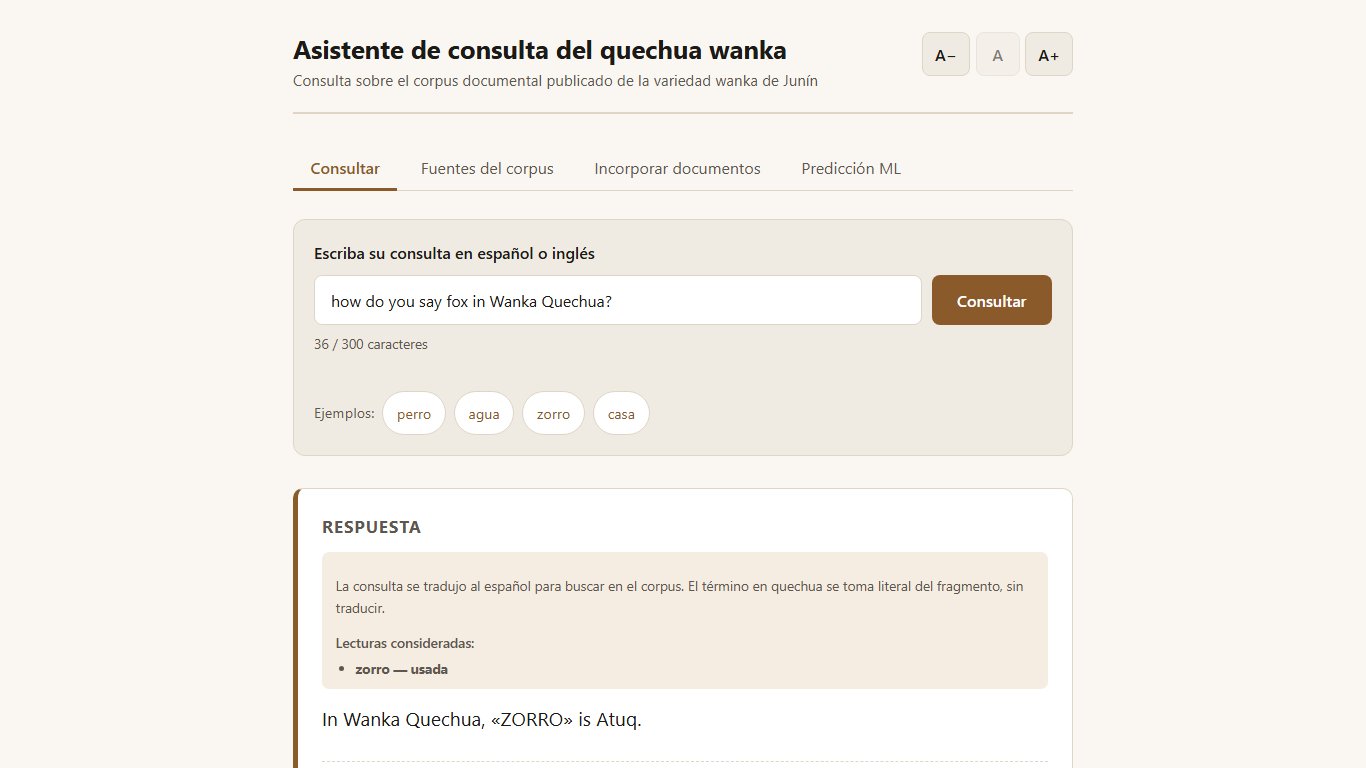
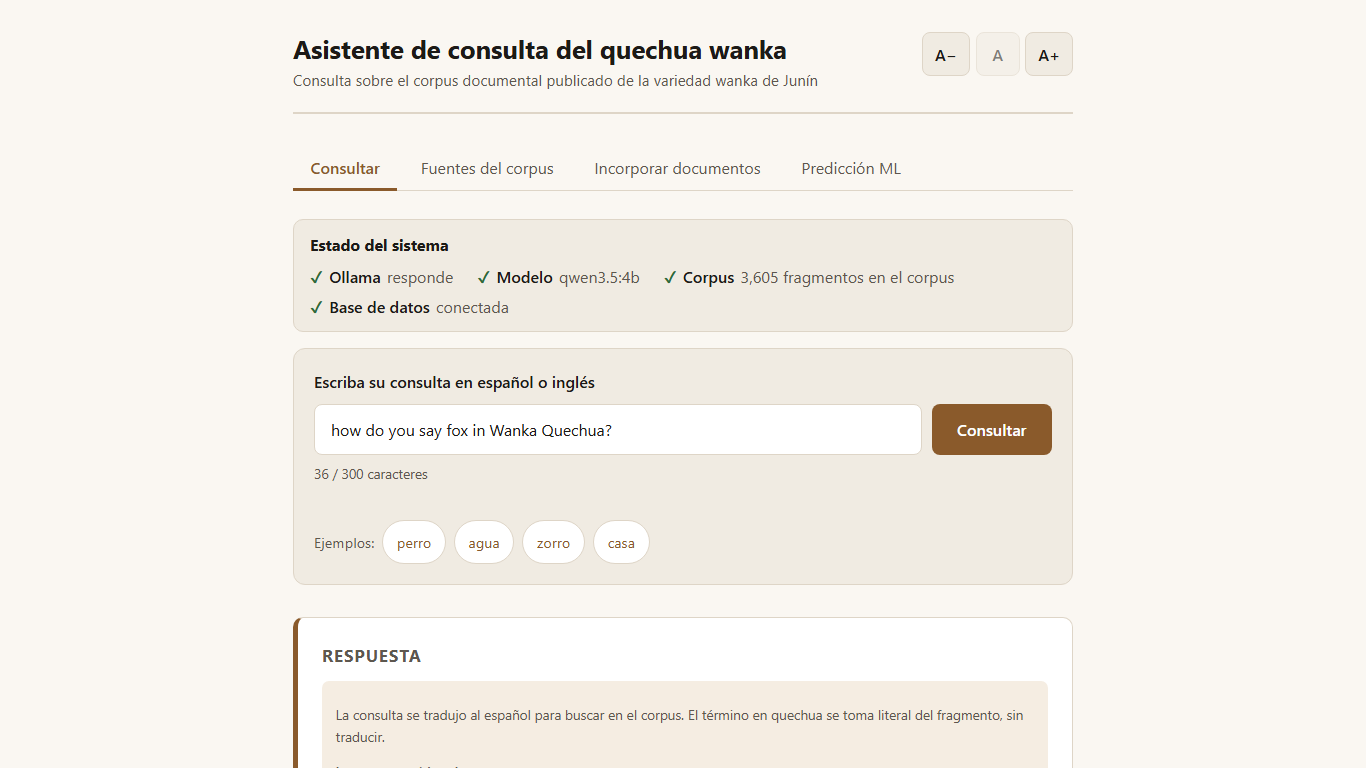
feat(arranque): pantalla de estado inicial, modo sin Ollama y ejecutable recompilado
Estado de Ollama, modelo, corpus y base en la vista Consultar, con aviso y
fragmento literal sin Ollama. El .exe pesa 104,1 MiB; arranca en 43,6 s en
frio y 2,1 s en caliente; la persistencia de BUG-01 se repite con exito.

Refs: HU-11

Changed region(s): [[0.2152, 0.3125, 0.7994, 1.0]]

diff --git a/frontend/e2e/estado.real.spec.js b/frontend/e2e/estado.real.spec.js
@@ -1,0 +1,16 @@
+// B14: la pantalla de estado inicial muestra Ollama, modelo, corpus y base.
+import { expect, test } from "@playwright/test";
+
+import { capturar } from "./ayudas.js";
+
+test("Estado inicial · todo disponible", async ({ page }) => {
+  await page.goto("/");
+  const estado = page.getByTestId("estado-inicial");
+  await expect(estado).toBeVisible();
+  await expect(page.getByTestId("estado-ollama")).toContainText("responde");
+  await expect(page.getByTestId("estado-modelo")).toContainText("qwen3.5:4b");
+  await expect(page.getByTestId("estado-corpus")).toContainText("fragmentos en el corpus");
+  await expect(page.getByTestId("estado-base")).toContainText("conectada");
+  await expect(page.getByTestId("aviso-sin-ollama")).toHaveCount(0);
+  await capturar(page, "B14_estado_inicial_todo_disponible");
+});

diff --git a/frontend/e2e/c10.sin-ollama.spec.js b/frontend/e2e/c10.sin-ollama.spec.js
@@ -6,6 +6,9 @@ import { capturar, consultar } from "./ayudas.js";
 
 test("C-10 · Ollama detenido: fragmento literal con aviso, sin error 500", async ({ page }) => {
   await page.goto("/");
+  // Pantalla de estado inicial (B14): avisa que Ollama no responde y que se usara el fragmento literal.
+  await expect(page.getByTestId("aviso-sin-ollama")).toContainText("fragmento literal");
+  await capturar(page, "B14_estado_inicial_sin_ollama_con_aviso");
   const respuesta = await consultar(page, "¿cómo se dice zorro en quechua wanka?");
   expect(respuesta.status()).toBe(200);
   await expect(page.locator(".respaldo__origen").first()).toContainText(/\.pdf — página \d+/);

diff --git a/backend/tests/unit/infrastructure/test_arranque_sin_ollama.py b/backend/tests/unit/infrastructure/test_arranque_sin_ollama.py
@@ -1,4 +1,4 @@
-"""B14: sin Ollama el sistema arranca, lo avisa en /api/estado y responde con el fragmento literal."""
+"""B14: sin Ollama el sistema arranca, lo avisa en /api/estado y responde con el literal."""
 
 from importlib import import_module
 

diff --git a/docs/evidencias/cierre_u3/b14_exe/registro.md b/docs/evidencias/cierre_u3/b14_exe/registro.md
@@ -1,0 +1,16 @@
+# B14 · arranque del ejecutable
+
+- **Pantalla de estado inicial:** sección «Estado del sistema» en la vista Consultar (sin cambiar las pestañas) que lee `/api/estado`: Ollama, modelo, corpus y base.
+  Con Ollama detenido muestra el aviso «las respuestas muestran el fragmento literal con su documento y página, sin redacción» y la aplicación sigue funcionando
+  (generador literal por el fallback del caso de uso). Vitest (4), E2E (2 capturas `B14_*`) y prueba de backend sin Ollama.
+- **`.exe` recompilado** (PyInstaller, con la interfaz y el backend actuales):
+
+| Medida | Resultado |
+|---|---|
+| Tamaño del `.exe` | 109 152 471 bytes (104,1 MiB; B2: 109 131 367) |
+| Arranque en frío hasta `GET /api/estado` = 200 | 43,61 s (copia del corpus base, descompresión, comprobación de Ollama) |
+| Arranque en caliente | 2,06 s |
+| Persistencia (BUG-01) en carpeta temporal | 3 605 → 5 965 fragmentos al incorporar una copia renombrada de un PDF ya registrado; tras cerrar y reabrir siguen 5 965, 9 documentos, documento y fuente listados, `consistencia` ok |
+| Sin Ollama (`OLLAMA_URL` hacia un puerto muerto) | arranca (43,6 s en frío), `generador_disponible: false`, consulta 200 con documento y página, aviso de generación y la respuesta es el fragmento literal |
+
+Las pruebas se hicieron en carpetas temporales fuera del repositorio; `backend/dist` solo contiene el `.exe` (ni `datos/` ni `.db`), y la base real no se tocó.
